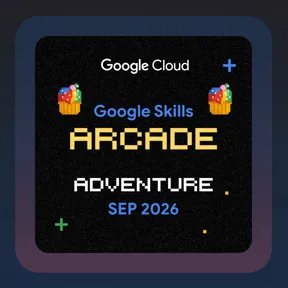
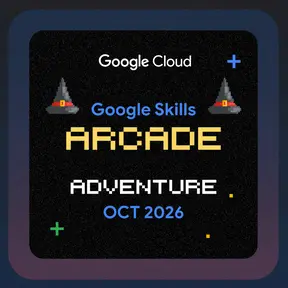
feat(katalog): game Oktober 2026 + tema Halloween
- 6 game Oktober: Base Camp (7499), Adventure/Google Cloud ML APIs (7496),
  Voyage/Language, Voice, and Multimodal Processing (7497), Trail/Containers &
  Load Balancing (7498), Trick-or-Metric (7501, spesial Halloween), Simulator/
  Site Reliability Engineer (7500).
- Art badge Oktober menimpa slot public/img/game-*.webp, cache-buster ?v=5 ke ?v=6.
- Tema Halloween: HALLOWEEN di src/config.js, ikon di src/halloween.jsx, hantu +
  labu di SpaceFX dan hero, glow oranye.
- Hapus pixel space-invader di background.
- Pengumuman modal diganti ke rilis Oktober/Halloween.

diff --git a/src/index.css b/src/index.css
@@ -25,7 +25,7 @@ body{
   background-attachment:fixed;background-repeat:no-repeat;background-size:cover;
 }
 
-/* dekorasi background arcade (starfield + pixel invader) */
+/* dekorasi background arcade (starfield) */
 .spacefx{position:fixed;inset:0;z-index:-1;pointer-events:none;overflow:hidden}
 .stars{position:absolute;inset:-20%}
 .stars-a{background-image:
@@ -42,14 +42,42 @@ body{
     radial-gradient(1.2px 1.2px at 30px 300px,rgba(255,255,255,.8),transparent);
   background-size:420px 420px;animation:twinkle 4.5s ease-in-out infinite alternate}
 @keyframes twinkle{from{opacity:.35}to{opacity:1}}
-.inv{position:absolute;width:44px;height:32px;opacity:.5;will-change:transform}
-.inv1{top:14%;left:6%;width:52px;height:38px;animation:drift1 13s ease-in-out infinite}
-.inv2{top:64%;right:8%;width:38px;height:28px;animation:drift2 17s ease-in-out infinite}
-.inv3{top:38%;right:16%;width:30px;height:22px;opacity:.4;animation:drift1 21s ease-in-out infinite}
-@keyframes drift1{0%,100%{transform:translate3d(0,0,0)}50%{transform:translate3d(14px,-20px,0)}}
-@keyframes drift2{0%,100%{transform:translate3d(0,0,0)}50%{transform:translate3d(-16px,18px,0)}}
-@media (max-width:640px){.inv3{display:none}.inv{opacity:.38}}
-@media (prefers-reduced-motion:reduce){.stars-b,.inv{animation:none}}
+@media (prefers-reduced-motion:reduce){.stars-b{animation:none}}
+
+/* dekorasi Halloween (Oktober 2026), hidup selama HALLOWEEN di src/config.js.
+   Hantu yang melintas ditaruh di luar layar oleh keyframes-nya, jadi saat reduced-motion
+   (animasi dimatikan) dua hantu itu disembunyikan dan yang tetap tinggal cuma hantu
+   mengambang + labu, yang posisinya statis. */
+.hw-glow{position:absolute;inset:0;background:
+  radial-gradient(60% 38% at 50% -4%,rgba(255,117,24,.16),transparent 70%),
+  radial-gradient(46% 34% at 10% 104%,rgba(160,107,255,.13),transparent 72%)}
+.hw-ghost{position:absolute;left:0;color:#fff;opacity:.5;will-change:transform;
+  filter:drop-shadow(0 0 8px rgba(255,255,255,.5)) drop-shadow(0 0 18px rgba(170,200,255,.35))}
+.hwg1{width:46px;height:53px;top:15%;animation:hw-across 26s linear infinite}
+.hwg2{width:38px;height:44px;top:56%;opacity:.42;animation:hw-reverse 31s linear infinite 5s}
+.hwg3{width:31px;height:36px;bottom:13%;left:8%;opacity:.4;animation:hw-float 6.5s ease-in-out infinite alternate}
+.hw-pumpkin{position:absolute;will-change:transform,opacity;
+  filter:drop-shadow(0 0 10px rgba(255,117,24,.55));animation:hw-flicker 2.8s ease-in-out infinite}
+.hwp1{width:54px;height:50px;bottom:7%;right:8%}
+.hwp2{width:34px;height:31px;top:22%;right:20%;opacity:.85;animation-delay:1.1s}
+@keyframes hw-across{
+  0%{transform:translateX(-80px) translateY(0) rotate(3deg);opacity:0}
+  8%{opacity:.5}
+  50%{transform:translateX(52vw) translateY(-24px) rotate(-4deg)}
+  92%{opacity:.5}
+  100%{transform:translateX(calc(100vw + 80px)) translateY(0) rotate(3deg);opacity:0}}
+@keyframes hw-reverse{
+  0%{transform:translateX(calc(100vw + 80px)) translateY(0) rotate(-3deg);opacity:0}
+  8%{opacity:.42}
+  50%{transform:translateX(48vw) translateY(22px) rotate(4deg)}
+  92%{opacity:.42}
+  100%{transform:translateX(-80px) translateY(0) rotate(-3deg);opacity:0}}
+@keyframes hw-float{0%{transform:translateY(0) rotate(-2deg)}100%{transform:translateY(-16px) rotate(2deg)}}
+@keyframes hw-flicker{
+  0%,100%{opacity:.7;filter:drop-shadow(0 0 8px rgba(255,90,0,.5))}
+  50%{opacity:1;filter:drop-shadow(0 0 17px rgba(255,140,0,.8))}}
+@media (max-width:640px){.hwg3{display:none}.hw-ghost{opacity:.34}}
+@media (prefers-reduced-motion:reduce){.hw-ghost,.hw-pumpkin{animation:none}.hwg1,.hwg2{display:none}}
 
 /* top nav bar + centered content */
 /* relative: jangkar untuk .topbar-sentinel. */
@@ -239,6 +267,15 @@ body{
 .ah-laser.lc{left:71%;animation-duration:1.7s;animation-delay:.3s}
 .ah-laser.ld{left:73%;animation-duration:2.05s;animation-delay:1s}
 @media(prefers-reduced-motion:reduce){.ahero *{animation:none!important}}
+/* Varian hero saat HALLOWEEN: bulan diganti jack-o'-lantern + hantu kecil, glow judul jadi oranye.
+   Aturan reduced-motion di atas sudah mematikan animasinya karena memakai selektor .ahero *. */
+.ah-jack{position:absolute;right:9%;top:11%;width:8%;height:auto;animation:ah-float 9s ease-in-out infinite;
+  filter:drop-shadow(0 0 10px rgba(255,117,24,.55))}
+.ah-ghost{position:absolute;left:9%;top:15%;width:5%;height:auto;color:#fff;opacity:.85;
+  filter:drop-shadow(0 0 8px rgba(255,255,255,.5));animation:ah-ghostfloat 7s ease-in-out infinite alternate}
+@keyframes ah-ghostfloat{0%{transform:translateY(0) rotate(-3deg)}100%{transform:translateY(-10px) rotate(3deg)}}
+.ahero.hw .ah-arcade{animation:ah-glow-hw 2.6s ease-in-out infinite}
+@keyframes ah-glow-hw{0%,100%{filter:drop-shadow(0 0 0 rgba(255,140,0,0))}50%{filter:drop-shadow(0 0 11px rgba(255,140,0,.55))}}
 
 /* weekly line chart */
 .lchart{width:100%;height:auto;display:block}

diff --git a/lib/gameCatalog.js b/lib/gameCatalog.js
@@ -13,18 +13,22 @@
 // `title` = judul resmi badge (dari <title> skills.google/games/{id}), dipakai test untuk
 // membuktikan tiap regex cocok dengan judulnya sendiri dan tidak dengan game lain.
 //
-// KOSONG sejak 1 Okt 2026, dan ini keadaan SEMENTARA, bukan permanen:
-//   - Game September sudah dipindah ke PAST_GAMES (m: 9) karena bulan berganti.
-//   - Game Oktober BELUM diterbitkan Google saat rotasi ini dikerjakan. Halaman resmi masih
-//     menampilkan keenam kartu September dengan access code aktif dan menulis
-//     "Last refreshed: Sep 28, 2026", sedangkan daftar "Game over!"-nya berhenti di Agustus.
-//     Jadi tidak ada judul, access code, game id, maupun art Oktober yang bisa dipakai.
+// Oktober 2026 (dicek 1 Okt 2026), bertema Halloween. September sudah dipindah ke PAST_GAMES
+// (m: 9) karena bulan berganti, jadi daftar ini murni game bulan berjalan.
 //
-// Mengosongkan daftar ini TIDAK menghilangkan poin: game September tetap terbaca sebagai game
-// lewat PAST_GAME_KEYS di lib/pastGames.js, jadi 654 peserta tidak kehilangan 1 poin game-nya.
-// Yang hilang sementara cuma kartu "game bulan ini" di UI.
-//
-// Begitu game Oktober terbit, isi lagi dengan 6 entri seperti bulan-bulan sebelumnya: title dari
-// <title> skills.google/games/{id}, `re` memuat penanda khas Oktober, access code dari halaman
-// resmi, art baru dari Ravi, lalu naikkan cache-buster `?v=` di Insights.jsx dan Catalog.jsx.
-export const GAME_CATALOG = []
+// Catatan halaman resmi: kakinya masih menulis "Last refreshed: Sep 28, 2026" walaupun keenam
+// kartu Oktober sudah tayang. Yang dijadikan patokan tetap access code + game id di kartunya,
+// bukan stempel tanggal itu (pola yang sama terjadi saat rotasi September).
+export const GAME_CATALOG = [
+  { name: 'Arcade Base Camp', short: 'Base Camp', title: 'Arcade Base Camp October 2026', game: 7499, code: '1q-basecamp-61332', img: '/img/game-basecamp.webp', re: /base ?camp october/i },
+  { name: 'Arcade Adventure', short: 'Adventure', title: 'Arcade Adventure: Google Cloud ML APIs', sub: 'Google Cloud ML APIs', game: 7496, code: '1q-endpoint-01297', img: '/img/game-adventure.webp', re: /adventure.*ml apis/i },
+  // Bukan /multimodal/i polos: skill badge 981, 1232, dan 1240 memuat kata itu, tapi bukan game.
+  { name: 'Arcade Voyage', short: 'Voyage', title: 'Arcade Voyage: Language, Voice, and Multimodal Processing', sub: 'Language, Voice, and Multimodal Processing', game: 7497, code: '1q-synthesis-10713', img: '/img/game-voyage.webp', re: /voyage.*multimodal/i },
+  // Bukan /load balancing/i polos: badge 648 dan 1558 memuat frasa itu, tapi bukan game.
+  { name: 'Arcade Trail', short: 'Trail', title: 'Arcade Trail: Containers & Load Balancing', sub: 'Containers & Load Balancing', game: 7498, code: '1q-package-53921', img: '/img/game-trail.webp', re: /trail.*load balancing/i },
+  // Game spesial Halloween. Judul resminya cuma "Trick-or-Metric" (tanpa awalan Arcade), jadi
+  // pola generik di parseProfile melewatkannya kalau regex ini tidak ada. Pola yang sama sudah
+  // menimpa "Spans and Plans" (Agustus) dan "Pitch Perfect" (September).
+  { name: 'Arcade Special', short: 'Special', title: 'Trick-or-Metric', sub: 'Trick-or-Metric', game: 7501, code: '1q-spooky-33057', img: '/img/game-special.webp', re: /trick-?or-?metric/i },
+  { name: 'Arcade Simulator', short: 'Simulator', title: 'Arcade Simulator: Site Reliability Engineer', sub: 'Site Reliability Engineer', game: 7500, code: '1q-reliability-21924', img: '/img/game-new.webp', re: /simulator.*site reliability/i },
+]

diff --git a/src/config.js b/src/config.js
@@ -1,23 +1,27 @@
+// Tema Halloween (Oktober 2026): menghidupkan hiasan hantu + labu di background dan hero,
+// mengikuti halaman Arcade resmi Google yang bulan ini bertema Halloween.
+// Setel `false` begitu bulan berganti supaya hiasannya tidak nyangkut.
+export const HALLOWEEN = true
+
 // Pengumuman admin, muncul sekali per pengunjung saat buka web.
 // Cara pakai: ganti `id` tiap bikin pengumuman baru (itu yang bikin modal muncul
 // lagi buat semua orang). Set `id: null` kalau lagi tidak ada pengumuman.
 // `links` opsional: URL ditulis lengkap di sini (bukan ambil dari CONFIG) karena
 // tiap pengumuman bisa menunjuk dokumen yang berbeda.
 export const ANNOUNCEMENT = {
-  id: '2026-09-29-deadline',
-  date: '14 September 2026',
-  title: '📢 Pendaftaran ditutup 14 Sep, deadline milestone 29 September 2026',
+  id: '2026-10-01-halloween',
+  date: '1 Oktober 2026',
+  title: 'Game Arcade Oktober + spesial Halloween sudah rilis',
   body: [
-    'Pendaftaran program fasilitator sudah ditutup 14 September 2026. Deadline pengumpulan milestone diperpanjang sampai 29 September 2026. Manfaatkan waktu yang tersisa!',
-    'Kalau masih ada badge yang belum kelar, kerjakan lab-nya sekarang. Deadline 29 September adalah batas akhir semua milestone.',
-    'Bonus milestone +10 poin masih bisa dikejar kalau belum dikirim. Pastikan AI Agent pertamamu sudah dikumpulkan sebelum 29 September.',
-    'Jangan lupa: Arcade Game kuotanya terbatas & game bisa kedaluwarsa tiap bulan. Mainkan dulu kalau belum. Slot hadiah bersifat waterfall & first-come, makin cepat kunci poin, makin aman.',
-    'Butuh bantuan? Office Hour tiap Kamis 19.00-20.00 WIB, atau tanya langsung di grup WhatsApp.',
+    'Enam game Arcade Oktober 2026 sudah tayang, termasuk game spesial Halloween Trick-or-Metric. Mainkan dulu selagi kuotanya ada: game Arcade bisa kedaluwarsa dan digantikan tiap bulan.',
+    'Buka tab Katalog untuk access code tiap game; klik kartunya dan kode otomatis tersalin. Tiap game bernilai 1 poin dan mengisi hitungan game untuk milestone.',
+    'Badge keahlian tetap menambah poin Season 2026: setiap 2 badge skill = 1 poin. Kejar tier hadiah lebih awal karena slotnya bersifat waterfall dan first-come.',
+    'Ada pertanyaan atau badge yang belum terdeteksi? Tanya di grup WhatsApp atau lewat tombol Masukan.',
   ],
   links: [
     { label: 'Cek poin saya', href: '/points' },
     { label: 'Lihat katalog badge', href: '/catalog' },
-    { label: 'Weekly Challenge Player', href: 'https://dicoding.id/Arcade26-WCPlayer' },
+    { label: 'Halaman Arcade resmi', href: 'https://go.cloudskillsboost.google/arcade' },
   ],
   signature: 'R',
 }

diff --git a/src/SpaceFX.jsx b/src/SpaceFX.jsx
@@ -1,38 +1,28 @@
-// Dekorasi background bertema arcade: starfield + pixel space-invader.
+// Dekorasi background bertema arcade: starfield.
+// Selama HALLOWEEN (Oktober 2026) ditambah hantu pixel yang berkelana, labu berkedip, dan
+// glow oranye, mengikuti halaman Arcade resmi Google yang bulan ini bertema Halloween.
 // Murni CSS/SVG (tanpa aset gambar), hanya animasi transform/opacity, hormati reduced-motion.
-
-// Grid invader klasik 11x8 (1 = terisi).
-const INVADER = [
-  '00100000100',
-  '00010001000',
-  '00111111100',
-  '01101110110',
-  '11111111111',
-  '10111111101',
-  '10100000101',
-  '00011011000',
-]
-
-function Invader({ className, color }) {
-  const cells = []
-  INVADER.forEach((row, y) => {
-    ;[...row].forEach((c, x) => {
-      if (c === '1') cells.push(<rect key={`${x}-${y}`} x={x} y={y} width="1" height="1" fill={color} />)
-    })
-  })
-  return (
-    <svg className={className} viewBox="0 0 11 8" shapeRendering="crispEdges" aria-hidden="true">{cells}</svg>
-  )
-}
+import { HALLOWEEN } from './config.js'
+import { Ghost, Pumpkin } from './halloween.jsx'
 
 export default function SpaceFX() {
   return (
     <div className="spacefx" aria-hidden="true">
+      {HALLOWEEN && <div className="hw-glow" />}
       <div className="stars stars-a" />
       <div className="stars stars-b" />
-      <Invader className="inv inv1" color="rgba(252,201,52,.5)" />
-      <Invader className="inv inv2" color="rgba(91,139,255,.5)" />
-      <Invader className="inv inv3" color="rgba(52,201,95,.45)" />
+      {/* Hantu yang terbang melintas diletakkan di luar layar oleh keyframes-nya; hantu
+          yang mengambang (hwg3) dan labu punya posisi tetap, jadi tetap tampil saat
+          reduced-motion (animasinya dimatikan, posisinya tidak). */}
+      {HALLOWEEN && (
+        <>
+          <Ghost className="hw-ghost hwg1" />
+          <Ghost className="hw-ghost hwg2" />
+          <Ghost className="hw-ghost hwg3" />
+          <Pumpkin className="hw-pumpkin hwp1" />
+          <Pumpkin className="hw-pumpkin hwp2" />
+        </>
+      )}
     </div>
   )
 }

diff --git a/src/halloween.jsx b/src/halloween.jsx
@@ -1,0 +1,30 @@
+// Dekorasi tema Halloween, dipakai layer background (SpaceFX) dan hero.
+// Sengaja SVG, bukan emoji: konvensi repo melarang emoji di UI.
+//
+// Ghost: pixel-art 14x16 yang sama dipakai halaman Arcade resmi Google (lihat
+// go.cloudskillsboost.google/arcade, elemen .spooky-ghost). Warnanya ikut `currentColor`
+// supaya glow-nya diatur CSS; dua mata dan mulutnya dilubangi dengan warna latar gelap.
+export function Ghost({ className }) {
+  return (
+    <svg className={className} viewBox="0 0 14 16" shapeRendering="crispEdges" aria-hidden="true">
+      <path fill="currentColor" d="M5 0h4v1h2v1h1v1h1v1h1v10h-2v1h-2v-1h-2v1h-2v-1h-2v1h-2v-1h-2v-10h1v-1h1v-1h1v-1h2z" />
+      <path fill="#141126" d="M3 5h2v3H3zM9 5h2v3H9z" />
+      <path fill="#141126" d="M6 10h2v2H6z" />
+    </svg>
+  )
+}
+
+// Jack-o'-lantern. Bukan pixel-art seperti Ghost (halaman resmi pun memakai pumpkin SVG halus),
+// jadi keduanya sengaja beda gaya persis seperti di sana.
+export function Pumpkin({ className }) {
+  return (
+    <svg className={className} viewBox="0 0 24 22" aria-hidden="true">
+      <rect x="10.6" y="0.4" width="2.4" height="3.6" rx="1" fill="#6aa84f" />
+      <ellipse cx="12" cy="12.4" rx="10.4" ry="8.6" fill="#ff7518" />
+      <ellipse cx="12" cy="12.4" rx="6.1" ry="8.3" fill="#ff9634" opacity=".55" />
+      <polygon points="7.4,9.1 10.7,9.1 9.05,11.9" fill="#1c0f24" />
+      <polygon points="13.3,9.1 16.6,9.1 14.95,11.9" fill="#1c0f24" />
+      <path d="M7.3 14.5l1.6 1.5 1.5-1.5 1.6 1.5 1.6-1.5 1.5 1.5 1.6-1.5" stroke="#1c0f24" strokeWidth="1.5" fill="none" strokeLinecap="round" strokeLinejoin="round" />
+    </svg>
+  )
+}

diff --git a/src/components/ArcadeHero.jsx b/src/components/ArcadeHero.jsx
@@ -1,6 +1,9 @@
 // Hero animasi arcade 8-bit (pengganti hero.png): starfield berkedip, bulan mengambang,
 // judul "THE ARCADE" glow, sparkle, laser jatuh. Motion transform/opacity; stop saat reduced-motion.
 // (Pesawat dihapus dari card ini; kartu fokus ke judul.)
+// Selama HALLOWEEN, bulan di kanan-atas diganti jack-o'-lantern dan ditambah hantu kecil.
+import { HALLOWEEN } from '../config.js'
+import { Ghost, Pumpkin } from '../halloween.jsx'
 
 // Bintang deterministik (seed tetap), kecil & halus seperti referensi.
 const STARS = (() => {
@@ -17,7 +20,7 @@ const Spark = ({ cls }) => <span className={'ah-spark ' + cls} />
 
 export default function ArcadeHero() {
   return (
-    <div className="ahero" role="img" aria-label="Google Cloud Arcade">
+    <div className={'ahero' + (HALLOWEEN ? ' hw' : '')} role="img" aria-label="Google Cloud Arcade">
       <div className="ah-stars">
         {STARS.map((st, i) => (
           <span key={i} className={'ah-star' + (st.big ? ' big' : '')}
@@ -25,7 +28,8 @@ export default function ArcadeHero() {
         ))}
       </div>
 
-      <div className="ah-moon" />
+      {HALLOWEEN ? <Pumpkin className="ah-jack" /> : <div className="ah-moon" />}
+      {HALLOWEEN && <Ghost className="ah-ghost" />}
       <Spark cls="sp1" />
       <Spark cls="sp2" />
       <Spark cls="sp3" />

diff --git a/src/Insights.jsx b/src/Insights.jsx
@@ -101,7 +101,7 @@ export function MonthlyGames({ badges }) {
           const ok = done(g.re)
           return (
             <div key={g.name} className={'gamecard' + (ok ? ' done' : '')}>
-              <img src={g.img + '?v=5'} alt={g.name} loading="lazy" />
+              <img src={g.img + '?v=6'} alt={g.name} loading="lazy" />
               <div className="gc-name">{g.name}</div>
               {g.sub && <div className="gc-sub">{g.sub}</div>}
               <div className={'gc-status' + (ok ? ' ok' : '')}>{ok ? '✓ Selesai' : g.off ? 'Ditunda' : 'Belum'}</div>

diff --git a/src/pages/Catalog.jsx b/src/pages/Catalog.jsx
@@ -505,7 +505,7 @@ export default function Catalog() {
       type: 'game',
       name: g.name,
       title: g.sub ? `${g.name}: ${g.sub}` : g.name,
-      img: g.img + '?v=5',
+      img: g.img + '?v=6',
       code: g.code || null,
       // Game yang ditarik Google tidak dilink: halamannya tidak bisa dimasuki lagi.
       url: g.off || !g.game ? null : gameUrl(g.game),
